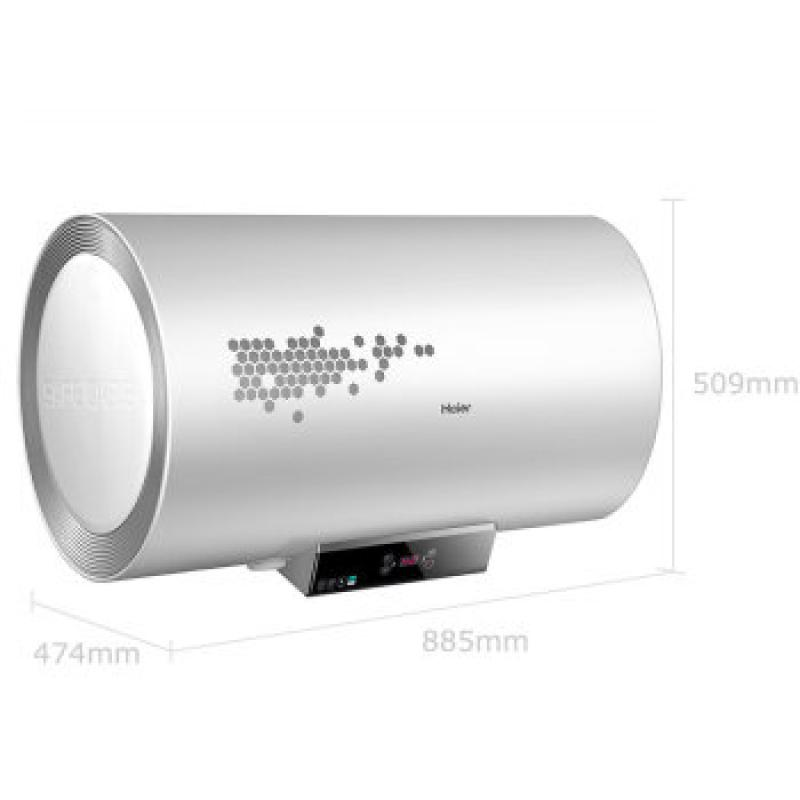
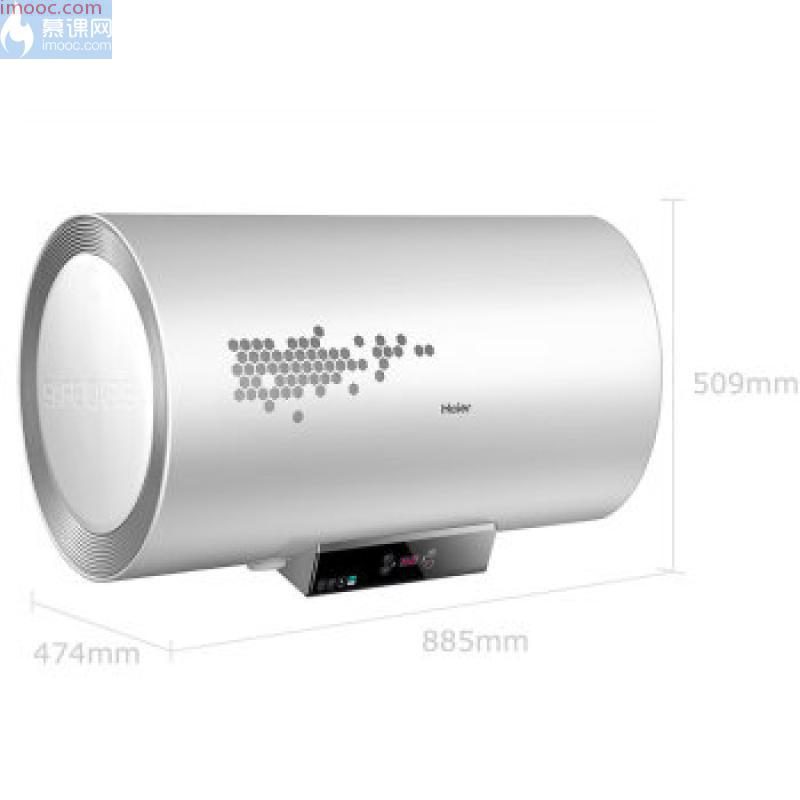
慕课网PHP电商网站后台开发--登陆注册添加水印

Changed region(s): [[0.0, 0.0, 0.1562, 0.0938]]

diff --git a/admin/listProImages.php b/admin/listProImages.php
@@ -1,0 +1,95 @@
+<?php
+require_once '../include.php';
+checkLogined();
+$rows=getProInfo();
+?>
+<!doctype html>
+<html>
+<head>
+    <meta charset="utf-8">
+    <title>-.-</title>
+    <link rel="stylesheet" href="style/backstage.css">
+</head>
+
+<body>
+
+<div class="details">
+    <div class="details_operation clearfix">
+        <div class="bui_select">
+            <input type="button" value="添&nbsp;&nbsp;加" class="add" onclick="addPro()">
+        </div>
+        <div class="fr">
+            <div class="text">
+                <span>商品价格：</span>
+                <div class="bui_select">
+                    <select id="" class="select" onchange="change(this.value)">
+                        <option>-请选择-</option>
+                        <option value="iPrice asc" >由低到高</option>
+                        <option value="iPrice desc">由高到底</option>
+                    </select>
+                </div>
+            </div>
+            <div class="text">
+                <span>上架时间：</span>
+                <div class="bui_select">
+                    <select id="" class="select" onchange="change(this.value)">
+                        <option>-请选择-</option>
+                        <option value="pubTime desc" >最新发布</option>
+                        <option value="pubTime asc">历史发布</option>
+                    </select>
+                </div>
+            </div>
+            <div class="text">
+                <span>搜索</span>
+                <input type="text" value="" class="search"  id="search" onkeypress="search()" >
+            </div>
+        </div>
+    </div>
+    <!--表格-->
+    <table class="table" cellspacing="0" cellpadding="0">
+        <thead>
+        <tr>
+            <th width="10%">编号</th>
+            <th width="20%">商品名称</th>
+            <th>商品图片</th>
+            <th>操作</th>
+        </tr>
+        </thead>
+        <tbody>
+        <?php foreach($rows as $row):?>
+            <tr>
+                <!--这里的id和for里面的c1 需要循环出来-->
+                <td><input  type="checkbox" id="c<?php echo $row['id'];?>" class="check" value=<?php echo $row['id'];?>><label for="c1" class="label"><?php echo $row['id'];?></label></td>
+
+                <td><?php echo $row['pName']; ?></td>
+                <td>
+                    <?php
+                    $proImgs=getAllImgByProId($row['id']);
+                    foreach($proImgs as $img):
+                        ?>
+                        <img width="100" height="100" src="uploads/<?php echo $img['albumPath'];?>" alt=""/> &nbsp;&nbsp;
+                    <?php endforeach;?>
+                </td>
+                <td>
+
+                    <input type="button" value="添加文字水印" onclick="doImg('<?php echo $row['id'];?>','waterText')" class="btn"/>
+
+                    <br/>
+                    <input type="button" value="添加图片水印" onclick="doImg('<?php echo $row['id'];?>','waterPic')" class="btn"/>
+                </td>
+
+
+
+
+            </tr>
+        <?php  endforeach;?>
+        </tbody>
+    </table>
+</div>
+<script type="text/javascript">
+    function doImg(id,act){
+        window.location="doAdminAction.php?act="+act+"&id="+id;
+    }
+</script>
+</body>
+</html>

diff --git a/reg.php b/reg.php
@@ -25,22 +25,25 @@
 
 <div class="regBox">
     <div class="login_cont">
-        <form action="doAction.php?act=reg" method="post" enctype="multipart/form-data">
-        <ul class="login">
-            <li><span class="reg_item"><i>*</i>用户名：</span><div class="input_item"><input type="text" name="username" placeholder="请输入用户名" class="login_input user_icon"></div></li>
-            <li><span class="reg_item"><i>*</i>密码：</span><div class="input_item"><input type="password" name="password" class="login_input user_icon"></div></li>
-            <li><span class="reg_item"><i>*</i>邮箱：</span><div class="input_item"><input type="email" name="email" placeholder="请输入合法的邮箱" class="login_input user_icon"></div></li>
-            <li><span class="reg_item"><i>*</i>性别：
-                </span><div class="input_item">
-                    <input type="radio" name="sex" value="1" checked>男
-                    <input type="radio" name="sex" value="2">女
-                    <input type="radio" name="sex" value="3">保密
-                </div>
-            </li>
-            <li><span class="reg_item"><i>*</i>头像：</span><div class="input_item"><input type="file" name="myFace"></div></li>
-            <li class="autoLogin"><span class="reg_item">&nbsp;</span><input type="checkbox" id="t1" class="checked"><label for="t1">我同意什么什么条款</label></li>
-            <li><span class="reg_item">&nbsp;</span><input type="image" src="images/reg.jpg"></li>
-        </ul>
+        <form method="post" enctype="multipart/form-data" action="doAction.php?act=reg" >
+            <ul class="login">
+                <li><span class="reg_item"><i>*</i>用户名：</span><div class="input_item"><input type="text"  name="username"  placeholder="请输入用户名" class="login_input user_icon" required="required"></div></li>
+                <li><span class="reg_item"><i>*</i>密码：</span><div class="input_item"><input type="password"  name="password"   class="login_input user_icon"required="required"></div></li>
+                <li><span class="reg_item"><i>*</i>邮箱：</span><div class="input_item"><input type="email" name="email" placeholder="请输入合法邮箱" class="login_input user_icon"required="required"></div></li>
+                <li><span class="reg_item"><i>*</i>性别：</span><div class="input_item">
+                        <input type="radio"  name="sex" value="1"> 男
+                        <input type="radio"  checked="checked" name="sex" value="2" > 女
+                        <input type="radio"  name="sex" value="3" > 保密
+                    </div></li>
+                <li><span class="reg_item"><i>*</i>头像：</span><div class="input_item"><input type="file"  name="myFace" ></div></li>
+                <li class="autoLogin"><span class="reg_item">&nbsp;</span><input type="checkbox" id="t1" class="checked">
+                    <label for="t1">我同意什么什么条款</label>
+                </li>
+                <li><span class="reg_item">&nbsp;</span>
+                    <button style="border:none;width:266px;height:35px;outline:none;">
+                        <img src="images/reg.jpg" alt="" />
+                    </button></li>
+            </ul>
         </form>
     </div>
 </div>

diff --git a/core/user.inc.php b/core/user.inc.php
@@ -1,0 +1,66 @@
+<?php
+/**
+ * Created by PhpStorm.
+ * User: melonydi
+ * Date: 2016/7/18
+ * Time: 20:16
+ */
+/**
+ * 登陆
+ * @return string
+ */
+function login(){
+    $username=$_POST['username'];
+    //转移一个字符串使之可以用于安全的mysql_query
+    $username=mysql_real_escape_string($username);
+    $password=md5($_POST['password']);
+    $sql="select * from imooc_user where username='{$username}' and password='{$password}'";
+    echo $sql;exit();
+    $row=fetchOne($sql);
+    if ($row){
+        $_SESSION['loginFlag']=$row['id'];
+        $_SESSION['username']=$row['username'];
+        $mes="登陆成功！<br/>3秒钟后跳转到首页<meta http-equiv='refresh' content='3;url=index.php'/>";
+    }else{
+        $mes="登陆失败！<br/><a href='login.php'>请重新登陆</a> ";
+    }
+    return $mes;
+}
+
+/**
+ * 注册
+ * @return string
+ */
+function reg(){
+    $arr=$_POST;
+    $arr['password']=md5($_POST['password']);
+    $arr['regTime']=time();
+    $uploadFile=uploadFile();
+
+    //print_r($uploadFile);
+    if($uploadFile&&is_array($uploadFile)){
+        $arr['face']=$uploadFile[0]['name'];
+    }else{
+        return "注册失败";
+    }
+//	print_r($arr);exit;
+    if(insert("imooc_user", $arr)){
+        $mes="注册成功!<br/>3秒钟后跳转到登陆页面!<meta http-equiv='refresh' content='3;url=login.php'/>";
+    }else{
+        $filename="uploads/".$uploadFile[0]['name'];
+        if(file_exists($filename)){
+            unlink($filename);
+        }
+        $mes="注册失败!<br/><a href='reg.php'>重新注册</a>|<a href='index.php'>查看首页</a>";
+    }
+    return $mes;
+}
+
+function userOut(){
+    $_SESSION=array_rand();
+    if (isset($_COOKIE[session_name()])){
+        setcookie(session_name(),null,time()-1);
+    }
+    session_destroy();
+    header("location:login.php");
+}

diff --git a/lib/image.func.php b/lib/image.func.php
@@ -85,3 +85,47 @@ function thumb($filename,$destination=null,$dst_w=null,$dst_h=null,$isReservedSo
     return $dstFilename;
 }
 
+/**
+ *添加文字水印
+ * @param string $filename
+ * @param string $text
+ * @param string  $fontfile
+ */
+function waterText($filename,$text="imooc.com",$fontfile="msyh.ttc"){
+    $fileInfo = getimagesize ( $filename );
+    $mime = $fileInfo ['mime'];
+    $createFun = str_replace ( "/", "createfrom", $mime );
+    $outFun = str_replace ( "/", null, $mime );
+    $image = $createFun ( $filename );
+    $color = imagecolorallocatealpha ( $image, 255, 0, 0, 50 );
+    $fontfile = "../fonts/{$fontfile}";
+    imagettftext ( $image, 14, 0, 0, 14, $color, $fontfile, $text );
+    $outFun ( $image, $filename );
+    imagedestroy ( $image );
+}
+
+/**
+ *添加图片水印
+ * @param string $dstFile
+ * @param string $srcFile
+ * @param int $pct
+ */
+function waterPic($dstFile,$srcFile="../images/logo.jpg",$pct=30){
+    $srcFileInfo = getimagesize ( $srcFile );
+    $src_w = $srcFileInfo [0];
+    $src_h = $srcFileInfo [1];
+    $dstFileInfo = getimagesize ( $dstFile );
+    $srcMime = $srcFileInfo ['mime'];
+    $dstMime = $dstFileInfo ['mime'];
+    $createSrcFun = str_replace ( "/", "createfrom", $srcMime );
+    $createDstFun = str_replace ( "/", "createfrom", $dstMime );
+    $outDstFun = str_replace ( "/", null, $dstMime );
+    $dst_im = $createDstFun ( $dstFile );
+    $src_im = $createSrcFun ( $srcFile );
+    imagecopymerge ( $dst_im, $src_im, 0, 0, 0, 0, $src_w, $src_h, $pct );
+//	header ( "content-type:" . $dstMime );
+    $outDstFun ( $dst_im, $dstFile );
+    imagedestroy ( $src_im );
+    imagedestroy ( $dst_im );
+}
+

diff --git a/login.php b/login.php
@@ -25,12 +25,12 @@
 
 <div class="loginBox">
     <div class="login_cont">
-        <form method="post" action="doLogin.php">
+        <form method="post" action="doAction.php?act=login">
         <ul class="login">
             <li class="l_tit">邮箱/用户名/手机号</li>
-            <li class="mb_10"><input type="text" class="login_input user_icon"></li>
+            <li class="mb_10"><input type="text" name="username" class="login_input user_icon"></li>
             <li class="l_tit">密码</li>
-            <li class="mb_10"><input type="password" class="login_input user_icon"></li>
+            <li class="mb_10"><input type="password" name="password" class="login_input user_icon"></li>
             <li class="autoLogin"><input type="checkbox" id="a1" class="checked"><label for="a1">自动登陆</label></li>
             <li><input type="submit" value="" class="login_btn"></li>
         </ul>

diff --git a/index.php b/index.php
@@ -26,7 +26,13 @@ if (!($cates&&is_array($cates))){
                 <a href="#" class="collection">收藏慕课</a>
             </div>
             <div class="rightArea">
-                欢迎来到慕课网！<a href="login.php">[登录]</a><a href="reg.php">[免费注册]</a>
+                欢迎来到慕课网！
+                <?php if (@$_SESSION['loginFlag']): ?>
+                    <span>欢迎您</span><?php echo $_SESSION['username'];?>
+                    <a href="doAction.php?act=userOut">[退出]</a>
+                <?php else:?>
+                <a href="login.php">[登录]</a><a href="reg.php">[免费注册]</a>
+                <?php endif;?>
             </div>
         </div>
     </div>

diff --git a/core/album.inc.php b/core/album.inc.php
@@ -29,3 +29,34 @@ function getProImgsById($id){
     $rows=fetchAll($sql);
     return $rows;
 }
+
+
+/**
+ * 文字水印的效果
+ * @param int $id
+ * @return string
+ */
+function doWaterText($id){
+    $rows=getProImgsById($id);
+    foreach($rows as $row){
+        $filename="../image_800/".$row['albumPath'];
+        waterText($filename);
+    }
+    $mes="操作成功";
+    return $mes;
+}
+
+/**
+ *图片水印
+ * @param int $id
+ * @return string
+ */
+function doWaterPic($id){
+    $rows=getProImgsById($id);
+    foreach($rows as $row){
+        $filename="../image_800/".$row['albumPath'];
+        waterPic($filename);
+    }
+    $mes="操作成功";
+    return $mes;
+}

diff --git a/doAction.php b/doAction.php
@@ -1,0 +1,25 @@
+<?php
+require_once "include.php";
+$act=$_REQUEST['act'];
+if ($act==="login"){
+    $mes=login();
+}elseif($act==="reg"){
+    $mes=reg();
+}elseif($act==="userOut"){
+    userOut();
+}
+?>
+<!DOCTYPE html>
+<html>
+<head>
+    <meta charset="UTF-8">
+    <title></title>
+</head>
+<body>
+<?php
+if ($mes){
+    echo $mes;
+}
+?>
+</body>
+</html>

diff --git a/core/pro.inc.php b/core/pro.inc.php
@@ -201,3 +201,13 @@ p.isHot,c.cName from imooc_pro as p join imooc_cate as c on p.cId=c.id where c.i
     $rows=fetchAll($sql);
     return $rows;
 }
+
+/**
+ * 得到商品id和名称
+ * @return array
+ */
+function getProInfo(){
+    $sql="select id,pName from imooc_pro order by id asc";
+    $rows=fetchAll($sql);
+    return $rows;
+}

diff --git a/admin/doAdminAction.php b/admin/doAdminAction.php
@@ -36,6 +36,10 @@ if ($act=="logout"){
     $mes=delUser($id);
 }elseif($act=="editUser"){
     $mes=editUser($id);
+}elseif($act=="waterText"){
+    $mes=doWaterText($id);
+}elseif($act=="waterPic"){
+    $mes=doWaterPic($id);
 }
 ?>
 <!DOCTYPE html>

diff --git a/admin/doLogin.php b/admin/doLogin.php
@@ -7,6 +7,7 @@
  */
 require_once "../include.php";
 $username=$_POST['username'];
+$username=mysql_real_escape_string($username);
 $password=md5($_POST['password']);
 $verify=$_POST['verify'];
 $sess_verify=$_SESSION['verify'];

diff --git a/include.php b/include.php
@@ -22,4 +22,5 @@ require_once "admin.inc.php";
 require_once "cate.inc.php";
 require_once "pro.inc.php";
 require_once "album.inc.php";
+require_once "user.inc.php";
 connect();
